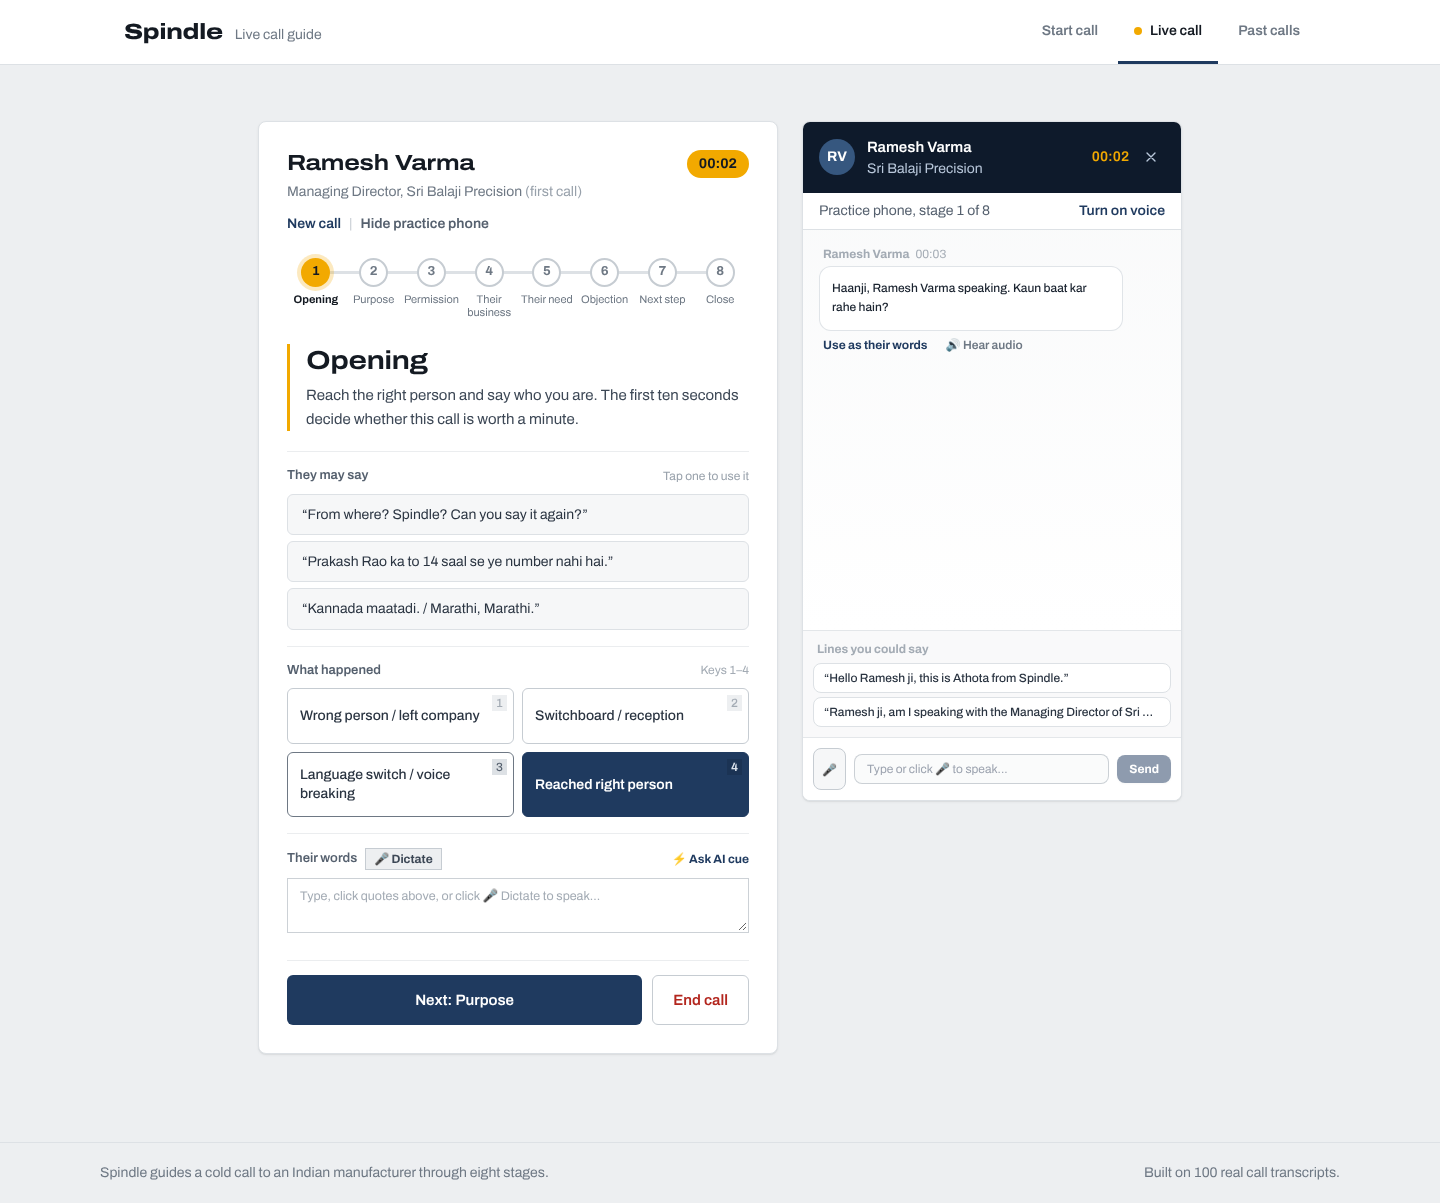
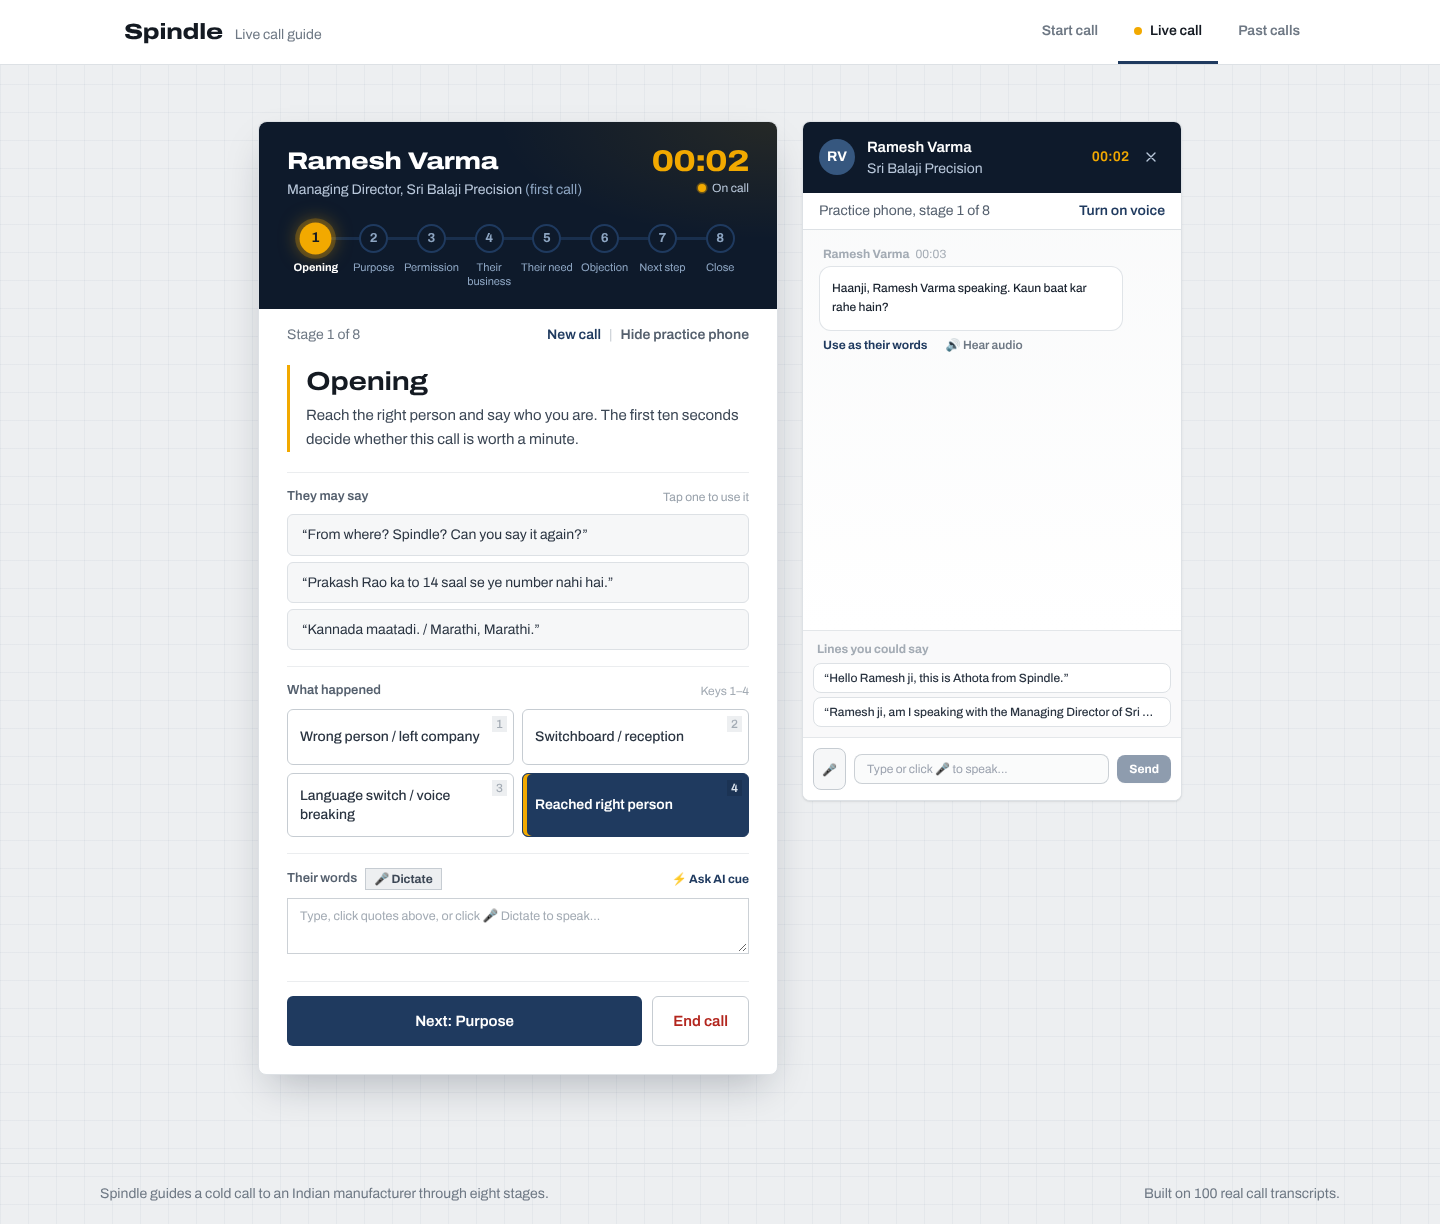
Bolder UI: dark instrument header, animated hero rail, stats band
- Live call: prospect, large amber timer and the stage rail sit in a dark
  navy instrument header; finished stages show a check, the current stage
  glows; stage content eases in on change; chosen tap gets an amber edge.
- Start: hero shows the eight-stage rail filling once on load (respects
  reduced motion) with the 93.5-second average-call fact.
- Past calls: stats become one dark band with large numerals and an
  amber peak bar in the drop-off chart.
- Faint blueprint grid behind every page. README screenshots refreshed.

Claude-Session: https://claude.ai/code/session_01GSL3e22pFX3NjQY3CNHXUS

diff --git a/frontend/src/views/LiveCall.jsx b/frontend/src/views/LiveCall.jsx
@@ -240,84 +240,99 @@ export default function LiveCall({ callId, content, onNew, onFinished, onClear }
     <div className="flex flex-col lg:flex-row items-center lg:items-start justify-center gap-6 py-2 sm:py-6 relative">
       
       {/* Call guide panel */}
-      <div className="w-full max-w-[520px] rounded-xl2 border border-steel-200 bg-white p-6 sm:p-7 shadow-card text-ink-900 shrink-0">
+      <div className="w-full max-w-[520px] rounded-xl2 border border-steel-200 bg-white p-6 sm:p-7 shadow-float text-ink-900 shrink-0">
 
-        {/* Prospect + call controls */}
-        <div className="flex items-start justify-between gap-4">
-          <div className="min-w-0">
-            <h2 className="text-[22px] font-bold leading-tight text-ink-950 truncate">
-              {call.prospect_name || "Unknown prospect"}
-            </h2>
-            <p className="text-sm text-ink-500 mt-1">
-              {[call.prospect_role, call.company_name].filter(Boolean).join(", ")}
-              {call.call_type ? <span className="text-ink-400"> ({call.call_type})</span> : null}
-            </p>
-          </div>
-          <span
-            className="tnum shrink-0 rounded-full bg-signal px-3 py-1 text-sm font-bold text-ink-950"
-            title="Time on this call"
-            aria-label={`Call time ${tick}`}
-          >
-            {tick}
-          </span>
-        </div>
-        <div className="mt-3 flex items-center gap-2 text-sm">
-          <button type="button" onClick={onNew} className="font-semibold text-navy hover:underline">
-            New call
-          </button>
-          <span className="text-steel-300" aria-hidden>|</span>
-          <button
-            type="button"
-            onClick={() => setShowSim(!showSim)}
-            className="font-semibold text-ink-600 hover:text-ink-900"
-            aria-pressed={showSim}
-          >
-            {showSim ? "Hide practice phone" : "Show practice phone"}
-          </button>
-        </div>
-
-        {/* Stage rail: the call as one thread, eight stops */}
-        <ol className="relative mt-6 mb-2 grid grid-cols-8" aria-label="Call stages">
-          <span className="absolute left-[6.25%] right-[6.25%] top-[13px] h-[3px] rounded-full bg-steel-200" aria-hidden />
-          <span
-            className="absolute left-[6.25%] top-[13px] h-[3px] rounded-full bg-navy transition-[width] duration-300"
-            style={{ width: `${((stageNo - 1) / 7) * 87.5}%` }}
-            aria-hidden
-          />
-          {stages.map((s) => {
-            const now = s.number === stageNo;
-            const past = s.number < stageNo;
-            return (
-              <li key={s.key} className="relative flex flex-col items-center">
-                <button
-                  type="button"
-                  onClick={() => setStageNo(s.number)}
-                  aria-current={now ? "step" : undefined}
-                  title={s.name}
-                  className={`tnum relative z-10 flex h-[29px] w-[29px] items-center justify-center rounded-full text-[13px] font-bold transition-colors ${
-                    now
-                      ? "bg-signal text-ink-950 ring-4 ring-signal/25"
-                      : past
-                      ? "bg-navy text-white hover:bg-navy-700"
-                      : "bg-white text-ink-500 border-2 border-steel-300 hover:border-ink-500"
-                  }`}
-                >
-                  {s.number}
-                </button>
-                <span
-                  className={`mt-1.5 px-0.5 text-center text-[11px] leading-tight ${
-                    now ? "font-bold text-ink-950 whitespace-nowrap" : "hidden sm:block text-ink-500"
-                  }`}
-                >
-                  {s.name}
+        {/* Instrument header: who, how long, where in the call */}
+        <div className="-mx-6 -mt-6 sm:-mx-7 sm:-mt-7 mb-6 rounded-t-xl2 bg-navy-900 px-6 sm:px-7 pt-6 pb-5 text-white bg-[radial-gradient(120%_140%_at_100%_0%,rgba(242,169,0,0.10),transparent_45%)]">
+          <div className="flex items-start justify-between gap-4">
+            <div className="min-w-0">
+              <h2 className="text-[24px] font-extrabold leading-tight truncate">
+                {call.prospect_name || "Unknown prospect"}
+              </h2>
+              <p className="text-sm text-navy-200 mt-1">
+                {[call.prospect_role, call.company_name].filter(Boolean).join(", ")}
+                {call.call_type ? <span className="text-navy-300"> ({call.call_type})</span> : null}
+              </p>
+            </div>
+            <div className="shrink-0 text-right" aria-label={`Call time ${tick}`}>
+              <div className="display tnum text-[30px] font-extrabold leading-none text-signal">{tick}</div>
+              <div className="mt-1 flex items-center justify-end gap-1.5 text-xs text-navy-200">
+                <span className="relative flex h-2 w-2">
+                  <span className="absolute inline-flex h-full w-full rounded-full bg-signal opacity-60 motion-safe:animate-ping" />
+                  <span className="relative inline-flex h-2 w-2 rounded-full bg-signal" />
                 </span>
-              </li>
-            );
-          })}
-        </ol>
+                On call
+              </div>
+            </div>
+          </div>
+
+          {/* Stage rail */}
+          <ol className="relative mt-6 grid grid-cols-8" aria-label="Call stages">
+            <span className="absolute left-[6.25%] right-[6.25%] top-[13px] h-[3px] rounded-full bg-navy-700" aria-hidden />
+            <span
+              className="absolute left-[6.25%] top-[13px] h-[3px] rounded-full bg-gradient-to-r from-navy-300 to-signal transition-[width] duration-500"
+              style={{ width: `${((stageNo - 1) / 7) * 87.5}%` }}
+              aria-hidden
+            />
+            {stages.map((s) => {
+              const now = s.number === stageNo;
+              const past = s.number < stageNo;
+              return (
+                <li key={s.key} className="relative flex flex-col items-center">
+                  <button
+                    type="button"
+                    onClick={() => setStageNo(s.number)}
+                    aria-current={now ? "step" : undefined}
+                    title={s.name}
+                    className={`tnum relative z-10 flex h-[29px] w-[29px] items-center justify-center rounded-full text-[13px] font-bold transition-all duration-200 ${
+                      now
+                        ? "scale-110 bg-signal text-ink-950 ring-4 ring-signal/25 shadow-[0_0_18px_rgba(242,169,0,0.55)]"
+                        : past
+                        ? "bg-navy-300 text-navy-900 hover:bg-white"
+                        : "bg-navy-900 text-navy-300 border-2 border-navy-600 hover:border-navy-300"
+                    }`}
+                  >
+                    {past ? (
+                      <svg className="h-3.5 w-3.5" viewBox="0 0 20 20" fill="currentColor" aria-hidden>
+                        <path fillRule="evenodd" d="M16.7 5.3a1 1 0 010 1.4l-8 8a1 1 0 01-1.4 0l-4-4a1 1 0 111.4-1.4L8 12.6l7.3-7.3a1 1 0 011.4 0z" clipRule="evenodd" />
+                      </svg>
+                    ) : (
+                      s.number
+                    )}
+                  </button>
+                  <span
+                    className={`mt-2 px-0.5 text-center text-[11px] leading-tight ${
+                      now ? "font-bold text-white whitespace-nowrap" : "hidden sm:block text-navy-300"
+                    }`}
+                  >
+                    {s.name}
+                  </span>
+                </li>
+              );
+            })}
+          </ol>
+        </div>
+
+        <div className="flex items-center justify-between gap-2 text-sm -mt-2 mb-5">
+          <span className="tnum text-ink-500">Stage {stage.number} of 8</span>
+          <div className="flex items-center gap-2">
+            <button type="button" onClick={onNew} className="font-semibold text-navy hover:underline">
+              New call
+            </button>
+            <span className="text-steel-300" aria-hidden>|</span>
+            <button
+              type="button"
+              onClick={() => setShowSim(!showSim)}
+              className="font-semibold text-ink-600 hover:text-ink-900"
+              aria-pressed={showSim}
+            >
+              {showSim ? "Hide practice phone" : "Show practice phone"}
+            </button>
+          </div>
+        </div>
 
         {/* Stage name & purpose */}
-        <div className="mt-6 mb-5 border-l-[3px] border-signal pl-4">
+        <div key={stage.key} className="mb-5 border-l-[3px] border-signal pl-4 motion-safe:animate-[stageIn_220ms_ease-out]">
           <h3 className="text-[26px] font-bold leading-tight text-ink-950">
             {stage.name}
           </h3>
@@ -369,7 +384,7 @@ export default function LiveCall({ callId, content, onNew, onFinished, onClear }
                   onClick={() => setTap(t.key)}
                   className={`relative min-h-[56px] p-3 pr-7 rounded-lg2 border text-left text-[14px] font-medium leading-snug transition-colors group ${
                     on
-                      ? "bg-navy text-white border-navy font-semibold"
+                      ? "bg-navy text-white border-navy font-semibold shadow-[inset_4px_0_0_#F2A900]"
                       : "bg-white text-ink-800 border-steel-300 hover:border-ink-500"
                   }`}
                 >

diff --git a/frontend/src/views/History.jsx b/frontend/src/views/History.jsx
@@ -121,31 +121,29 @@ export default function History({ content, onOpen, onNew }) {
         </div>
       </div>
 
-      {/* Analytics Snapshot Bar */}
-      <div className="grid grid-cols-1 gap-4 sm:grid-cols-[170px_230px_1fr]">
-        <div className="card flex flex-col justify-end p-5">
-          <span className="display tnum text-5xl font-extrabold text-ink-950 leading-none">{stats?.calls ?? calls.length}</span>
-          <span className="label mt-3">Calls logged</span>
+      {/* Numbers band */}
+      <div className="grid grid-cols-1 sm:grid-cols-[170px_230px_1fr] overflow-hidden rounded-xl2 bg-navy-900 text-white shadow-float">
+        <div className="flex flex-col justify-end p-6 border-b sm:border-b-0 sm:border-r border-navy-700">
+          <span className="display tnum text-[56px] font-extrabold leading-none">{stats?.calls ?? calls.length}</span>
+          <span className="mt-3 text-sm font-semibold text-navy-200">Calls logged</span>
         </div>
-        <div className="card flex flex-col justify-end p-5">
-          <span className="display tnum text-5xl font-extrabold text-ink-950 leading-none">
+        <div className="flex flex-col justify-end p-6 border-b sm:border-b-0 sm:border-r border-navy-700">
+          <span className="display tnum text-[56px] font-extrabold leading-none text-signal">
             {Math.round((stats?.connect_rate || 0) * 100)}%
           </span>
-          <span className="label mt-3">Reached the right person</span>
+          <span className="mt-3 text-sm font-semibold text-navy-200">Reached the right person</span>
         </div>
-        <div className="card p-5">
-          <div className="flex items-center justify-between mb-1">
-            <span className="label">Stage where each call ended</span>
-          </div>
+        <div className="p-6">
+          <span className="text-sm font-semibold text-navy-200">Stage where each call ended</span>
           <div className="mt-3 grid grid-cols-8 items-end gap-2">
             {Object.entries(byStage).map(([n, c]) => (
               <div key={n} className="grid h-[112px] grid-rows-[16px_1fr_18px] items-end justify-items-center gap-1">
-                <span className="tnum text-xs text-ink-500 font-bold">{c || ""}</span>
+                <span className="tnum text-xs font-bold text-white">{c || ""}</span>
                 <div
-                  className="w-full max-w-[28px] self-end rounded-t-[3px] bg-navy"
+                  className={`w-full max-w-[28px] self-end rounded-t-[3px] ${c === peak && c ? "bg-signal" : "bg-navy-300"}`}
                   style={{ height: `${c ? Math.max(10, (c / peak) * 100) : 0}%` }}
                 />
-                <span className="tnum text-xs text-ink-500 font-semibold border-t border-steel-200 w-full text-center pt-1">{n}</span>
+                <span className="tnum w-full border-t border-navy-700 pt-1 text-center text-xs font-semibold text-navy-200">{n}</span>
               </div>
             ))}
           </div>

diff --git a/frontend/src/views/StartCall.jsx b/frontend/src/views/StartCall.jsx
@@ -78,6 +78,32 @@ export default function StartCall({ content, hasCall, resume, onStart }) {
           and type the prospect's own words.
         </p>
 
+        {/* The call, drawn as its eight stops; fills once on load */}
+        <div className="mt-8 rounded-xl2 bg-navy-900 px-6 pt-6 pb-5 shadow-float" aria-hidden>
+          <div className="relative grid grid-cols-8">
+            <span className="absolute left-[6.25%] right-[6.25%] top-[13px] h-[3px] rounded-full bg-navy-700" />
+            <span className="absolute left-[6.25%] right-[6.25%] top-[13px] h-[3px] origin-left rounded-full bg-gradient-to-r from-navy-300 via-navy-300 to-signal motion-safe:animate-[railFill_1.8s_cubic-bezier(.6,0,.2,1)_both]" />
+            {content.stages.map((st, i) => (
+              <div key={st.key} className="relative flex flex-col items-center">
+                <span
+                  className={`tnum relative z-10 flex h-[29px] w-[29px] items-center justify-center rounded-full text-[13px] font-bold ${
+                    i === 7
+                      ? "bg-signal text-ink-950 shadow-[0_0_18px_rgba(242,169,0,0.55)]"
+                      : "bg-navy-300 text-navy-900"
+                  }`}
+                  style={{ animation: `nodeOn ${0.35 + i * 0.2}s ease-out both` }}
+                >
+                  {st.number}
+                </span>
+                <span className="mt-2 hidden sm:block text-center text-[11px] leading-tight text-navy-200">{st.name}</span>
+              </div>
+            ))}
+          </div>
+          <p className="mt-4 border-t border-navy-700 pt-3 text-sm text-navy-200">
+            The average call in the transcripts lasts 93.5 seconds. Spindle keeps you on the right stage for all of it.
+          </p>
+        </div>
+
         {/* Quick Start Call Session */}
         <div className="mt-7 rounded-xl2 border border-steel-200 bg-white px-5 py-4 flex flex-col sm:flex-row sm:items-center justify-between gap-4">
           <div className="flex items-start gap-3">

diff --git a/frontend/src/index.css b/frontend/src/index.css
@@ -6,6 +6,11 @@
   html, body, #root { min-height: 100%; }
   body {
     @apply bg-steel-100 text-ink-900 font-sans antialiased;
+    /* faint blueprint grid */
+    background-image:
+      linear-gradient(rgba(31,58,95,0.045) 1px, transparent 1px),
+      linear-gradient(90deg, rgba(31,58,95,0.045) 1px, transparent 1px);
+    background-size: 28px 28px;
     font-feature-settings: "tnum" 1, "ss01" 1;
   }
   h1, h2, h3, .display {
@@ -42,3 +47,8 @@
   .badge-live { @apply border-signal bg-signal-soft text-signal-ink; }
   .tnum { font-variant-numeric: tabular-nums; }
 }
+
+@keyframes stageIn { from { opacity: 0; transform: translateY(4px); } to { opacity: 1; transform: none; } }
+@keyframes railFill { from { transform: scaleX(0); } to { transform: scaleX(1); } }
+@keyframes nodeOn { 0%, 55% { opacity: .25; transform: scale(.7); } 100% { opacity: 1; transform: none; } }
+@media (prefers-reduced-motion: reduce) { [style*="nodeOn"] { animation: none !important; } }

diff --git a/frontend/src/App.jsx b/frontend/src/App.jsx
@@ -72,7 +72,7 @@ export default function App() {
   }, []);
 
   return (
-    <div className="flex min-h-screen flex-col bg-steel-100 text-ink-900">
+    <div className="flex min-h-screen flex-col text-ink-900">
       {/* Top Banner if Render backend is cold-starting */}
       {wakingUp && !health && (
         <div className="bg-navy-50/90 border-b border-navy-200/80 px-4 py-2 text-center text-xs text-navy-900 flex items-center justify-center gap-2.5 backdrop-blur-xs">
